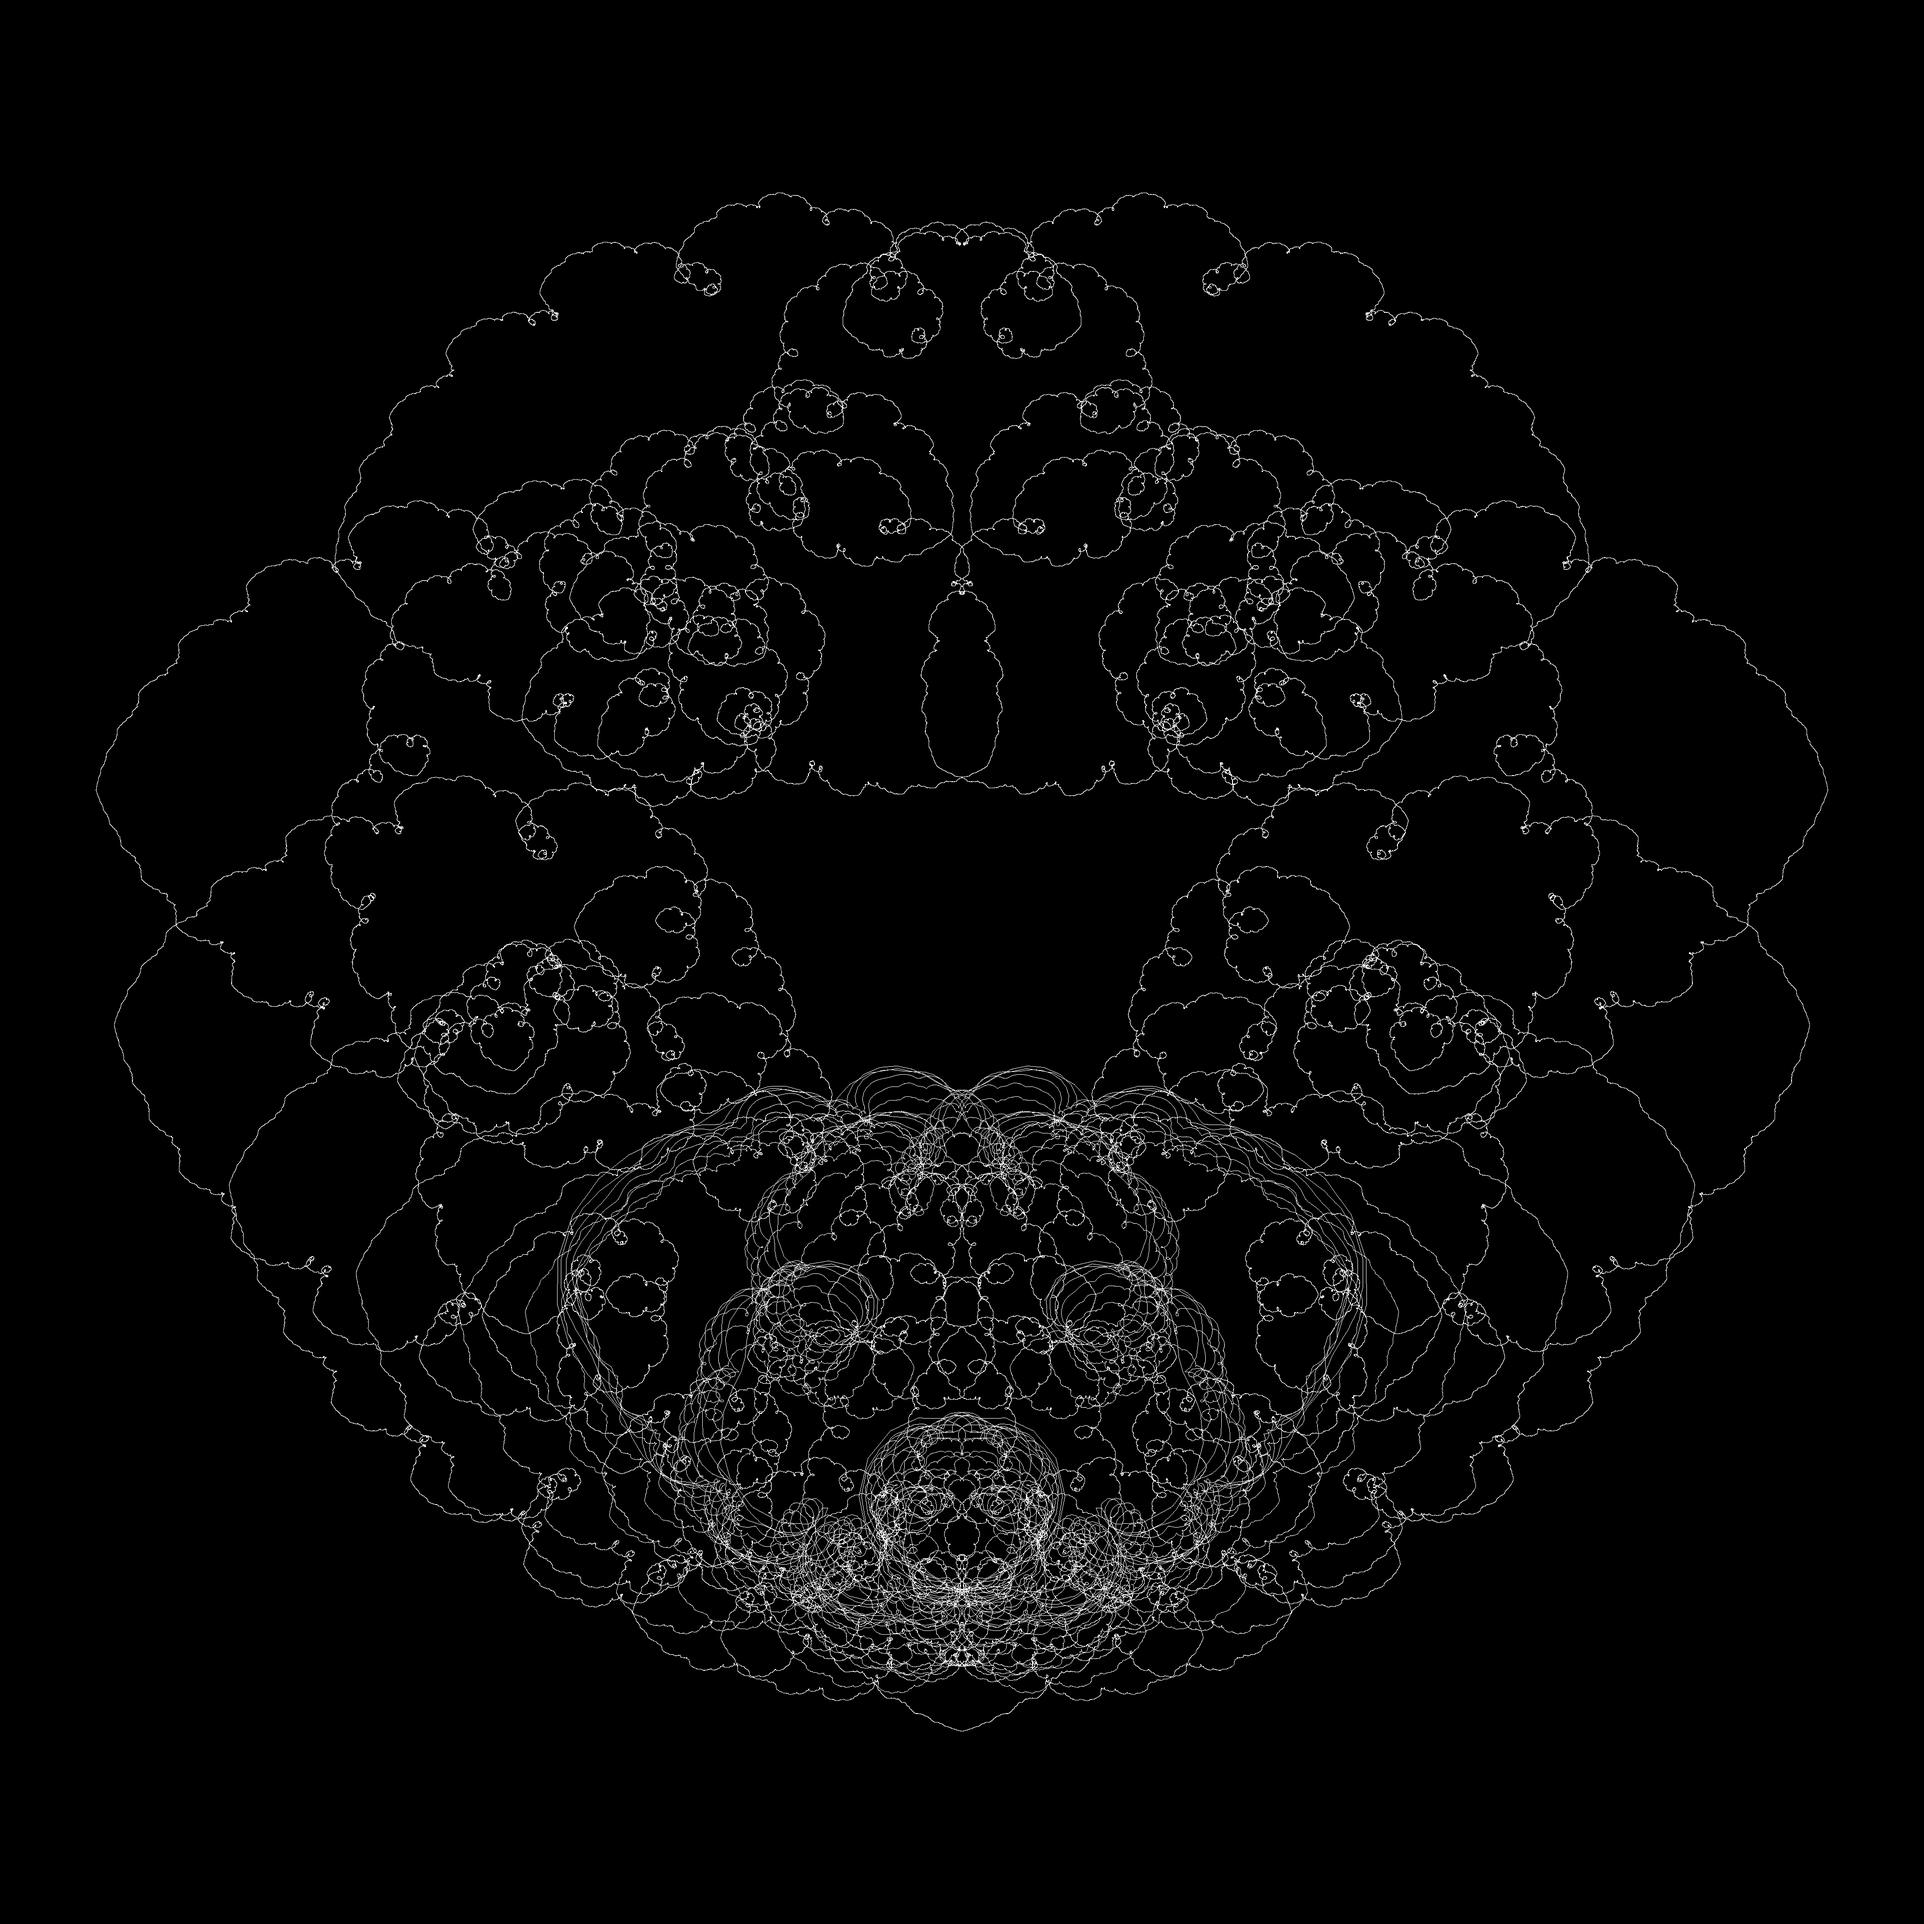
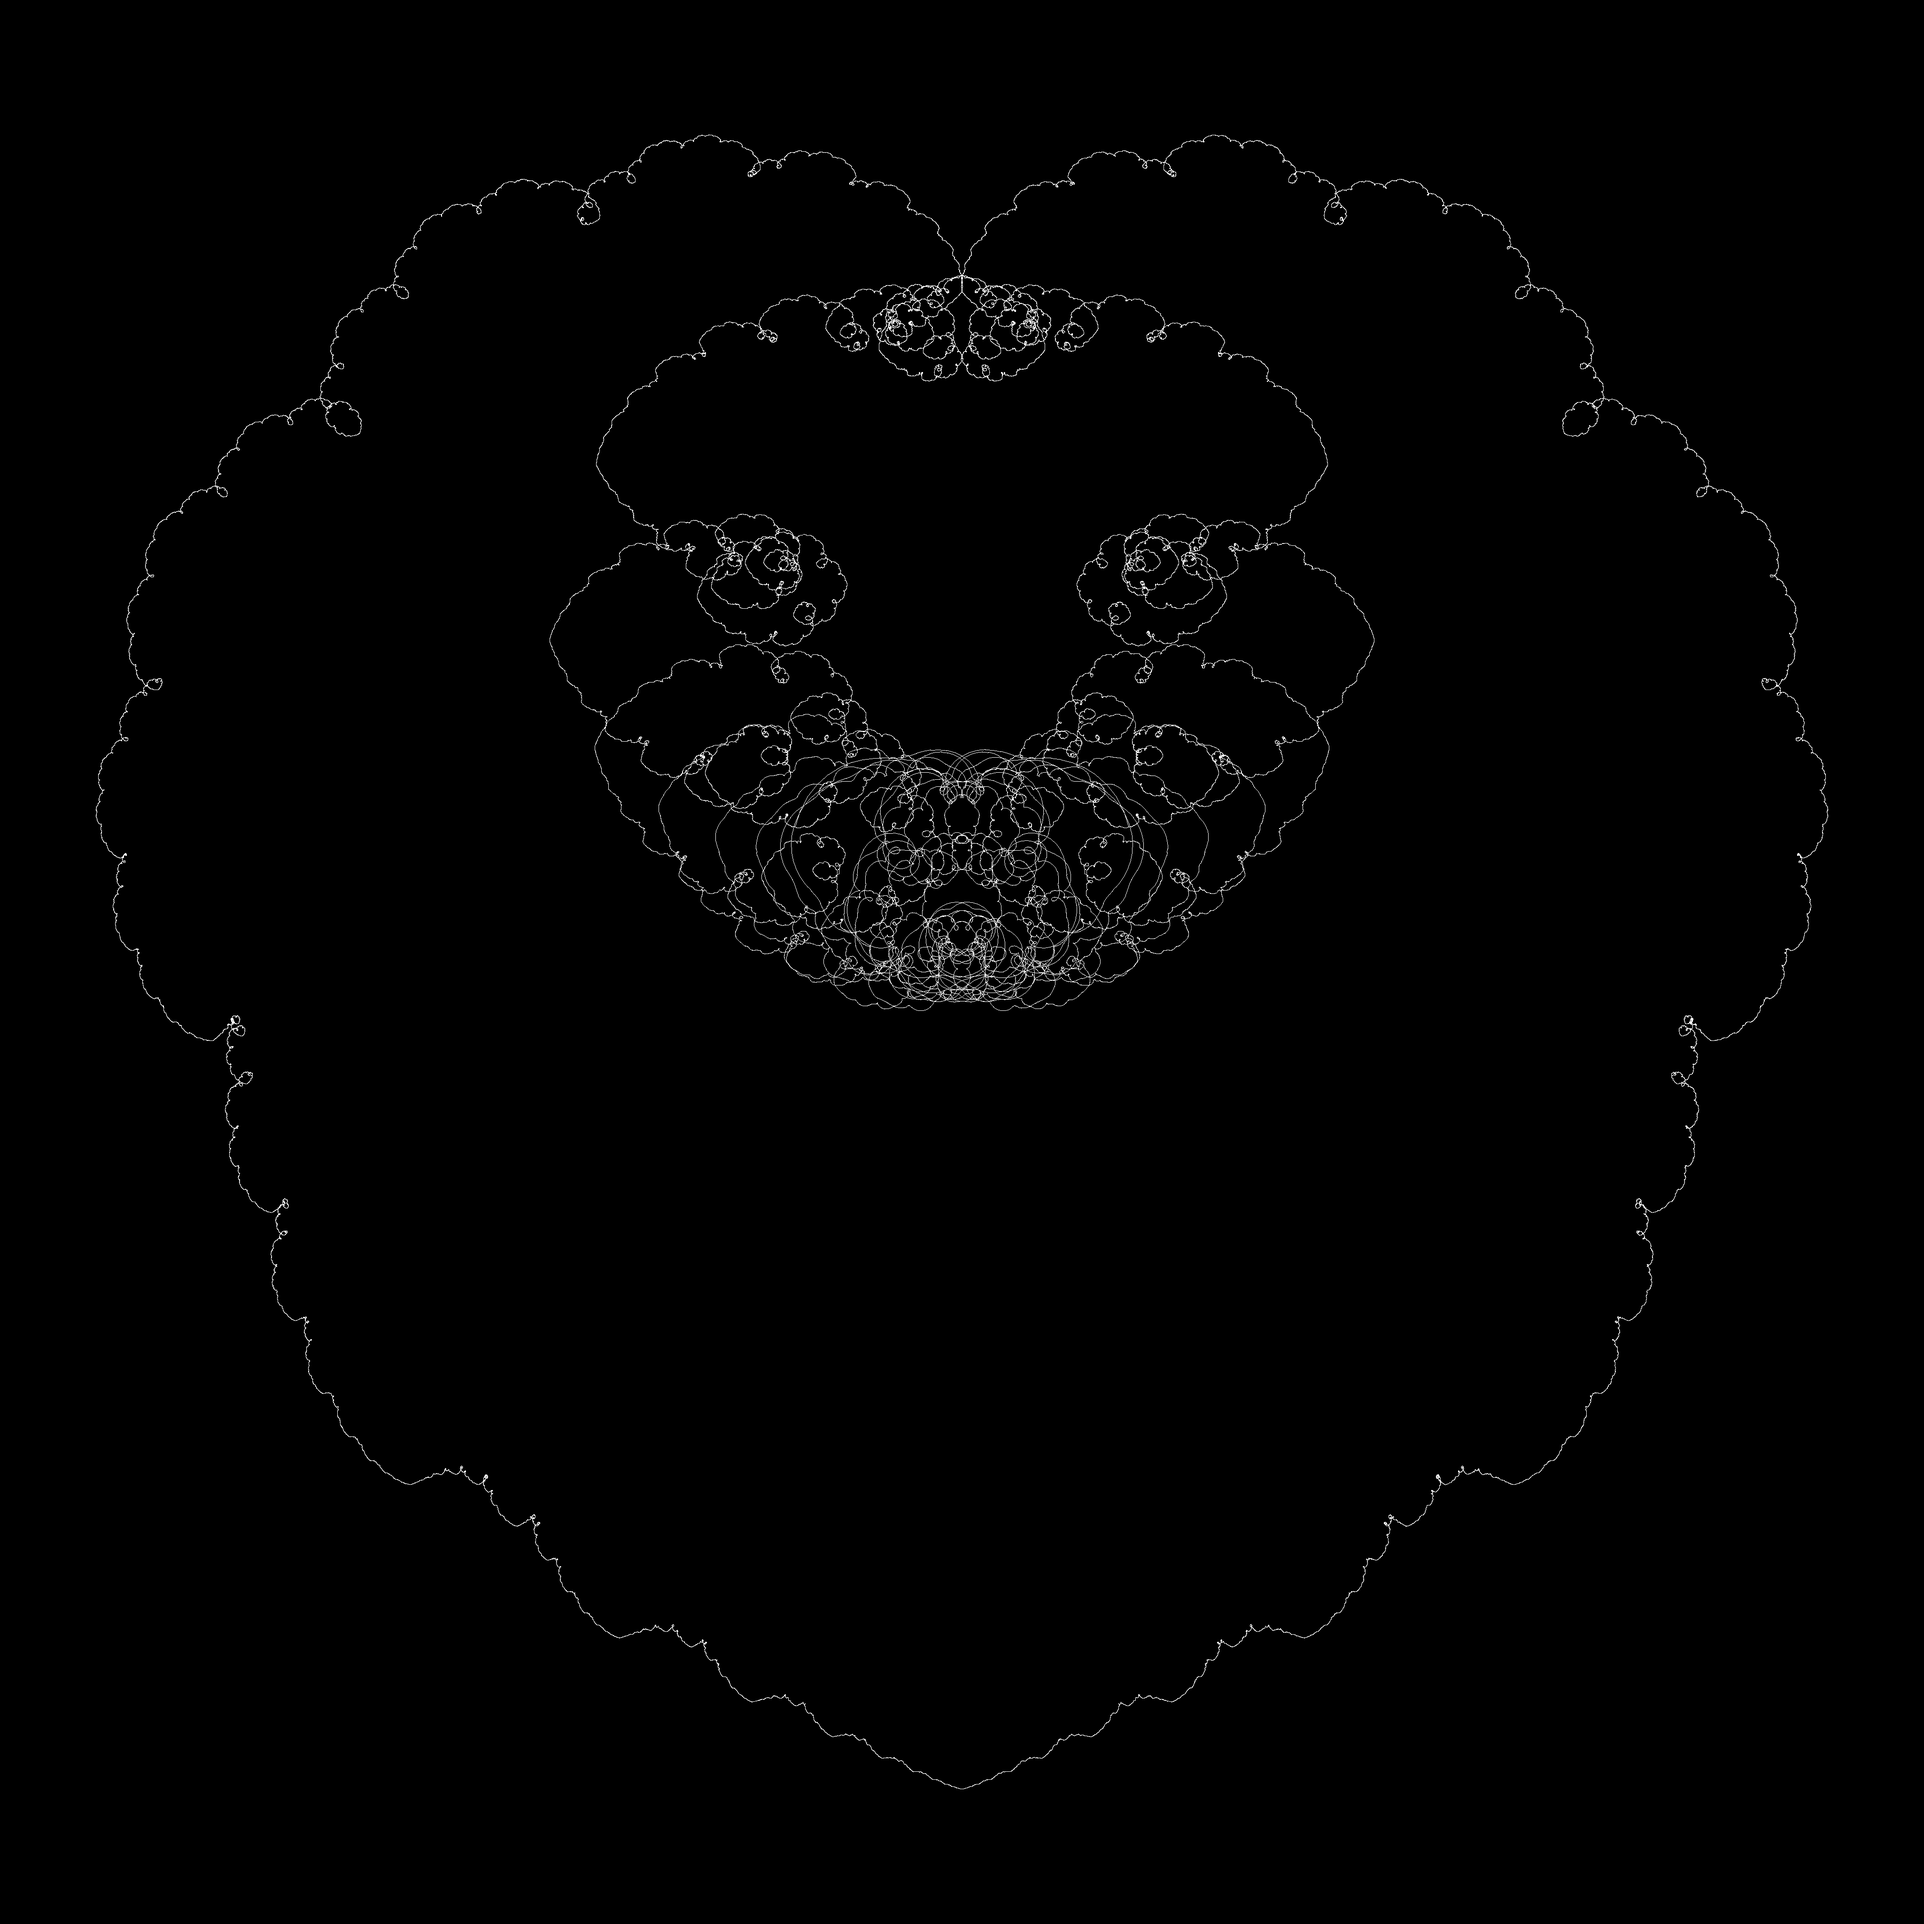
Use imageproc for drawing

diff --git a/src/render/render_fractal.rs b/src/render/render_fractal.rs
@@ -1,16 +1,14 @@
 
 use rustfft::num_complex::Complex;
+use rustfft::num_traits::Float;
 
-use cgmath::{Vector2, BaseNum};
-use cgmath::num_traits::Float;
-use image::{GenericImage, ImageBuffer, Rgb};
-
-use super::draw_shape;
+use image::{GenericImage, Rgb};
+use imageproc;
 
 pub fn render_fractal<ImageType, T>(target: &mut ImageType, fractal_points: &[Complex<T>])
 	where
 		ImageType: GenericImage<Pixel=Rgb<u8>>,
-		T: Float + BaseNum
+		T: Float
 {
 	let half = T::from(0.5f64).unwrap();
 
@@ -44,21 +42,19 @@ pub fn render_fractal<ImageType, T>(target: &mut ImageType, fractal_points: &[Co
 	//compute the transformation we'll apply to every point
 	let scale = T::min(scale_x, scale_y) * T::from(0.9f64).unwrap();
 
-	let translate = Vector2::new(
-		image_size_x * half - scale * fractal_center_x,
-		image_size_y * half + scale * fractal_center_y,
+	let translate = Complex{
+		re: image_size_x * half - scale * fractal_center_x,
+		im: image_size_y * half + scale * fractal_center_y,
+		};
+
+	for window in fractal_points.windows(2) {
+		let line_start = window[0].conj() * scale + translate;
+		let line_end =   window[1].conj() * scale + translate;
+
+		imageproc::drawing::draw_line_segment_mut(target, 
+			(line_start.re.to_f32().unwrap(), line_start.im.to_f32().unwrap()),
+			(line_end.re.to_f32().unwrap(), line_end.im.to_f32().unwrap()),
+			Rgb([255,255,255]),
 		);
-
-	println!("{:?}", Vector2::new(fractal_center_x, -fractal_center_y) + translate);
-
-	for (i, window) in fractal_points.windows(2).enumerate() {
-		if i % 1000000 == 0 {
-			println!("Drawing line {} of {}", i, fractal_points.len() - 1);
-		}
-
-		let line_start = Vector2::new(window[0].re, -window[0].im) * scale + translate;
-		let line_end =   Vector2::new(window[1].re, -window[1].im) * scale + translate;
-
-		draw_shape::draw_line(target, line_start, line_end);
 	}
 }

diff --git a/src/main.rs b/src/main.rs
@@ -1,6 +1,6 @@
 extern crate rustfft;
 extern crate image;
-extern crate cgmath;
+extern crate imageproc;
 
 use rustfft::num_complex::Complex;
 use image::{ImageBuffer, Rgb};
@@ -11,15 +11,15 @@ mod render;
 
 
 fn main() {
-	let num_iterations = 20;
-	let interpolation_amount = 8;
+	let num_iterations = 14;
+	let interpolation_amount = 16;
 	let pad_size = 2;
-	let truncate_size = interpolation_amount * pad_size * 10;
+	let truncate_size = interpolation_amount * pad_size * 8;
 
 	let initial_points = [
-		Complex{ re:  40f64, im: 0f64 },
-		Complex{ re:  0f64, im: 1f64 },
-		Complex{ re: -40f64, im: 0f64 }
+		Complex{ re:  1f64, im: 0f64 },
+		Complex{ re:  0f64, im: 0f64 },
+		Complex{ re: -1f64, im: 0f64 }
 		];
 
 	let fractal_points = generate_points::generate(&initial_points, num_iterations, pad_size);
@@ -30,6 +30,7 @@ fn main() {
 	//there's usually some garbage at the beginning and end that looks way better if we take it off
 	let rendered_points = &fractal_points[truncate_size..(fractal_points.len() - truncate_size)];
 
+	println!("Drawing");
 	let mut img = ImageBuffer::from_pixel(4096, 4096, Rgb([0,0,0]));
 	render::render_fractal(&mut img, rendered_points);
 

diff --git a/src/generate_points.rs b/src/generate_points.rs
@@ -35,6 +35,8 @@ pub fn generate<T: FFTnum>(inital_points: &[Complex<T>], num_iterations: usize, 
     let mut planner = FFTplanner::new(false);
 
     for i in 0..num_iterations {
+        println!("Generating points: iteration={}, len={}", i + 1, points.len() * pad_size);
+
     	let len = points.len();
 
     	//allocate a destination buffer for the FFT. we're going to concatenate a bunch of zeroes afterwards
@@ -55,8 +57,6 @@ pub fn generate<T: FFTnum>(inital_points: &[Complex<T>], num_iterations: usize, 
         let final_len = points.len() - (pad_size - 1);
     	points.truncate(final_len);
     	scale(&mut points, T::one() / T::from_usize(len).unwrap());
-
-    	println!("Generating points: iteration={}, len={}", i + 1, points.len());
     }
 
     points

diff --git a/src/render/mod.rs b/src/render/mod.rs
@@ -1,5 +1,4 @@
 
-mod draw_shape;
 mod render_fractal;
 
 pub use self::render_fractal::render_fractal;
